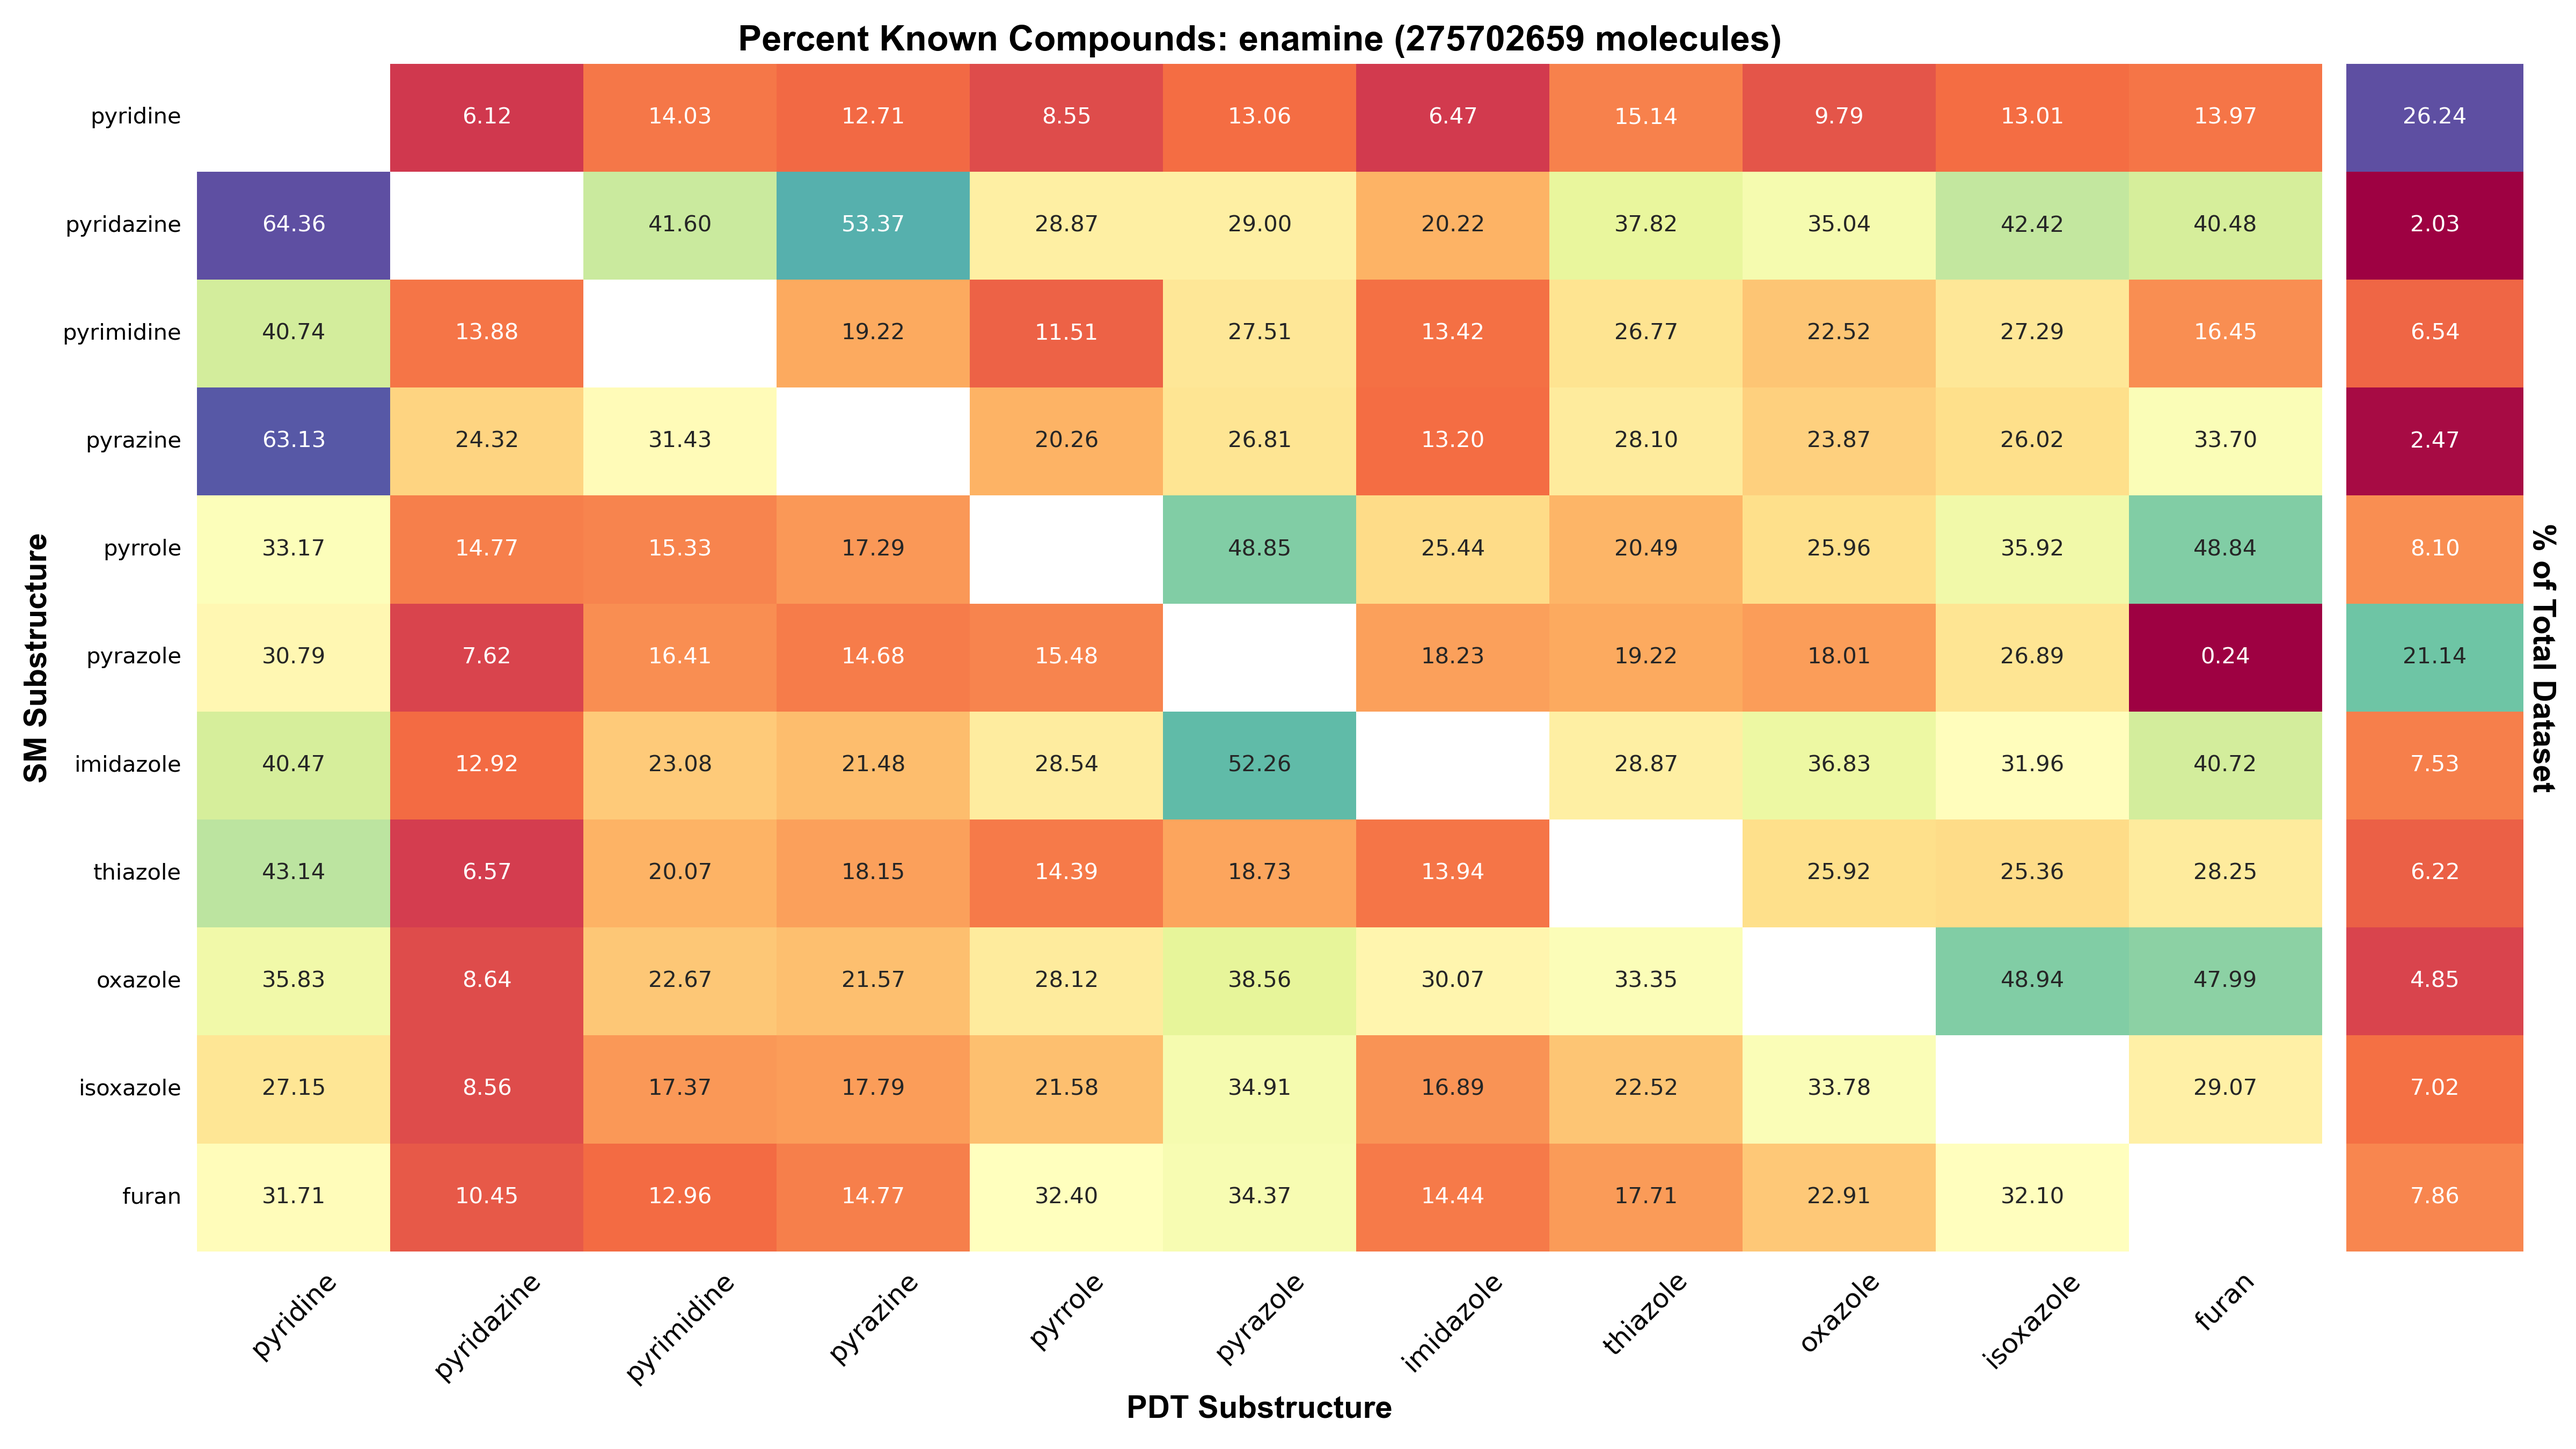
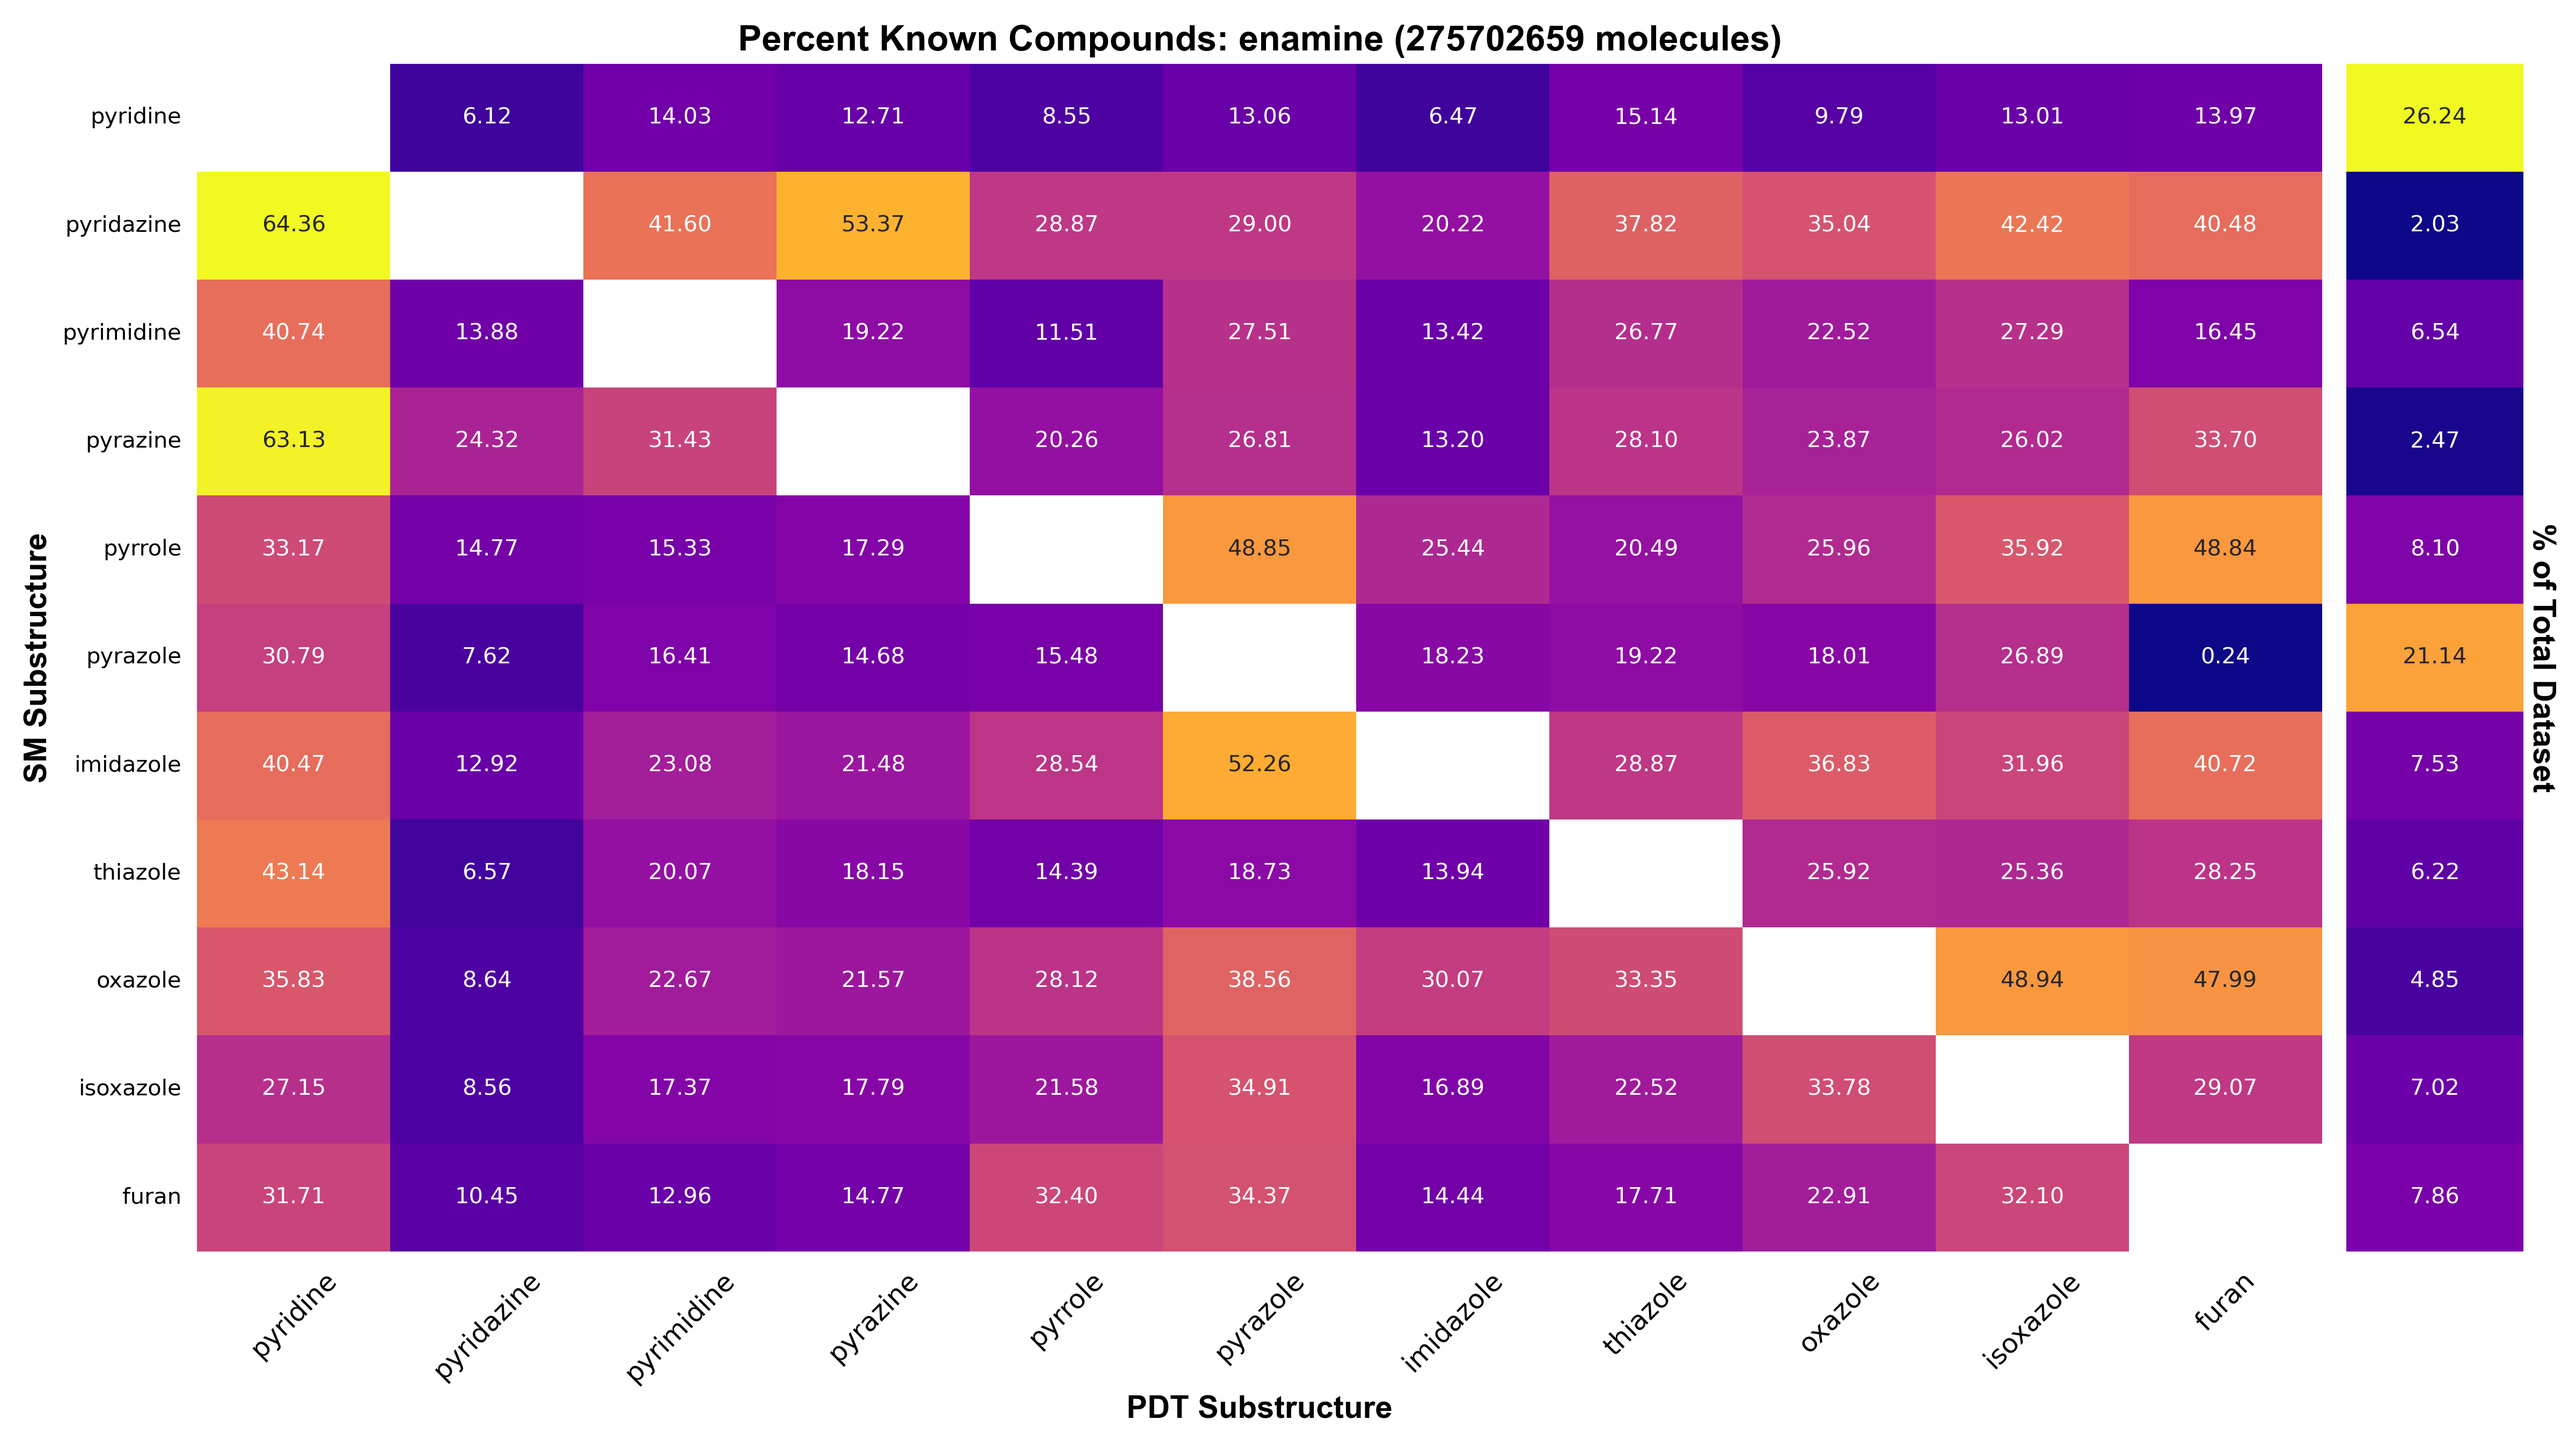
added some plots

diff --git a/databases/results/final_analysis.py b/databases/results/final_analysis.py
@@ -201,7 +201,7 @@ def GenerateHeatmap(dataframe, title, filename, sm_df, directory):
 
     # define which colors to use
     # see https://seaborn.pydata.org/tutorial/color_palettes.html for more info
-    cmap = sns.color_palette("Spectral", as_cmap=True)
+    cmap = sns.color_palette("plasma", as_cmap=True)
 
     # Create a grid with different widths for subplots
     gs = plt.GridSpec(1, 2, width_ratios=[12, 1])
@@ -252,6 +252,35 @@ def GenerateHeatmap(dataframe, title, filename, sm_df, directory):
     save_path = f'{directory}/{filename}'
     plt.savefig(save_path, dpi=300)
     plt.close()  # Close the plot to release memory
+
+
+# function specifically for generated heatmaps showing # of starting materials by category
+def GenerateHeatmap2(dataframe, title, filename, directory):
+# Define figure size
+    plt.figure(figsize=(16, 4))
+
+    # Choose a color palette for the heatmap
+    cmap = "plasma"
+
+    # Create the heatmap
+    sns.heatmap(dataframe, 
+                annot=True,
+                cmap=cmap,
+                linewidths=0.0,
+                linecolor='white',
+                fmt=".2f",
+                annot_kws={"size": 10},
+                cbar=False
+                )       
+
+    # Set title and labels
+    plt.title(title, fontsize=16, fontweight="bold")
+
+    plt.xlabel('Heteroaromatic', fontsize=14)
+
+    # Save the plot as a file
+    save_path = f'{directory}/{filename}'
+    plt.savefig(save_path, dpi=300)
 
 
 # define which frameworks to use
@@ -339,3 +368,10 @@ for database in database_list:
     # exports dfs to csvs for averaging
     percent_common_df.to_csv(f'percent_common_dfs/percent_common_df_{database}.csv', index=True)
     sm_column_df.to_csv(f'percent_new_dfs/sm_percentages_df_{database}.csv', index=True)
+
+    # transposes SM set for representation as a row-shaped heatmap
+    sm_column_df_transposed = sm_column_df.transpose()
+    GenerateHeatmap2(sm_column_df_transposed,
+                     f'% of Total for Each Heterocycle Class: {database} ({total_molecule_count} molecules)',
+                     f'sm_percentages_{database}.png',
+                     'num_heterocycles')
